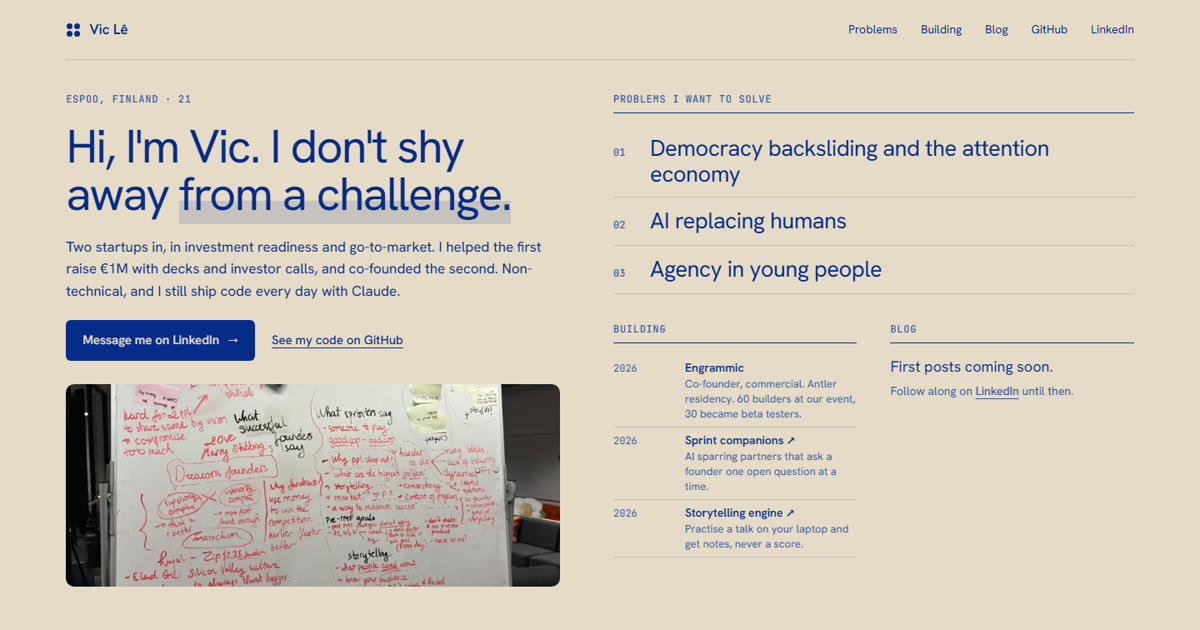
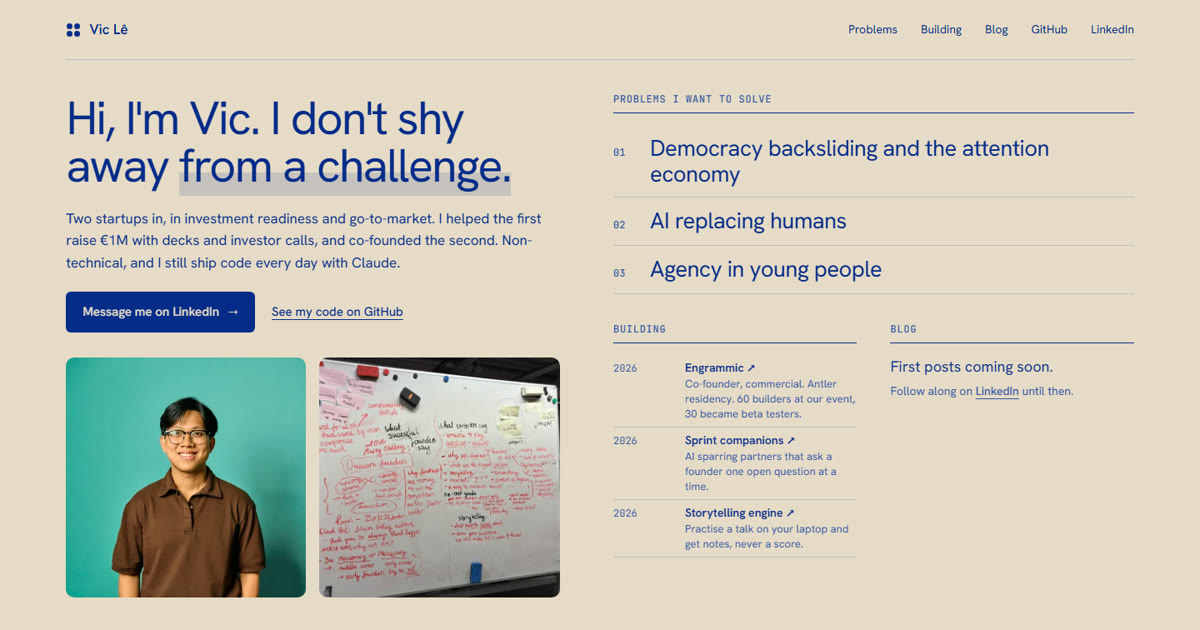
Add portrait, React Bits-style effects and Engrammic link; trim filler

Changed region(s): [[0.0308, 0.1508, 0.4933, 0.9651]]

diff --git a/assets/effects.js b/assets/effects.js
@@ -1,0 +1,107 @@
+/* Small effects, written in plain JS after React Bits components (reactbits.dev):
+   BlurText, TiltedCard, Magnet, SpotlightCard and ClickSpark. No framework, no build step. */
+(function () {
+  var reduce = window.matchMedia('(prefers-reduced-motion: reduce)').matches;
+  var finePointer = window.matchMedia('(hover: hover) and (pointer: fine)').matches;
+  document.documentElement.classList.add('js');
+
+  /* BlurText: words drop in from a blur, one after another */
+  document.querySelectorAll('[data-blur-text]').forEach(function (el) {
+    var i = 0;
+    (function wrap(node) {
+      Array.prototype.slice.call(node.childNodes).forEach(function (child) {
+        if (child.nodeType === 3) {
+          var frag = document.createDocumentFragment();
+          child.textContent.split(/(\s+)/).forEach(function (part) {
+            if (!part) return;
+            if (/^\s+$/.test(part)) { frag.appendChild(document.createTextNode(part)); return; }
+            var span = document.createElement('span');
+            span.className = 'bw';
+            span.style.setProperty('--w', i++);
+            span.textContent = part;
+            frag.appendChild(span);
+          });
+          node.replaceChild(frag, child);
+        } else if (child.nodeType === 1) {
+          wrap(child);
+        }
+      });
+    })(el);
+    requestAnimationFrame(function () { el.classList.add('is-in'); });
+  });
+
+  if (reduce) return;
+
+  /* TiltedCard: the card leans toward the pointer and lifts */
+  if (finePointer) document.querySelectorAll('[data-tilt]').forEach(function (card) {
+    var inner = card.querySelector('.tilt__inner');
+    var amp = 14;
+    card.addEventListener('pointermove', function (e) {
+      var r = card.getBoundingClientRect();
+      var x = (e.clientX - r.left) / r.width - 0.5;
+      var y = (e.clientY - r.top) / r.height - 0.5;
+      card.classList.add('is-active');
+      inner.style.transform = 'rotateX(' + (-y * amp) + 'deg) rotateY(' + (x * amp) + 'deg) scale(1.06)';
+    });
+    card.addEventListener('pointerleave', function () {
+      card.classList.remove('is-active');
+      inner.style.transform = '';
+    });
+  });
+
+  /* Magnet: the button drifts toward a nearby pointer */
+  if (finePointer) document.querySelectorAll('[data-magnet]').forEach(function (el) {
+    var pad = 80, strength = 4;
+    window.addEventListener('pointermove', function (e) {
+      var r = el.getBoundingClientRect();
+      var cx = r.left + r.width / 2, cy = r.top + r.height / 2;
+      var near = Math.abs(e.clientX - cx) < r.width / 2 + pad && Math.abs(e.clientY - cy) < r.height / 2 + pad;
+      if (near) {
+        el.classList.add('is-pulled');
+        el.style.transform = 'translate3d(' + (e.clientX - cx) / strength + 'px,' + (e.clientY - cy) / strength + 'px,0)';
+      } else if (el.classList.contains('is-pulled')) {
+        el.classList.remove('is-pulled');
+        el.style.transform = '';
+      }
+    }, { passive: true });
+  });
+
+  /* SpotlightCard: a soft light follows the pointer across each row */
+  document.querySelectorAll('[data-spotlight] .rows li').forEach(function (li) {
+    li.addEventListener('pointermove', function (e) {
+      var r = li.getBoundingClientRect();
+      li.style.setProperty('--mx', (e.clientX - r.left + 12) + 'px');
+      li.style.setProperty('--my', (e.clientY - r.top) + 'px');
+    });
+  });
+
+  /* ClickSpark: short lines burst from every click */
+  var canvas = document.createElement('canvas');
+  canvas.className = 'spark-canvas';
+  canvas.setAttribute('aria-hidden', 'true');
+  document.body.appendChild(canvas);
+  var ctx = canvas.getContext('2d');
+  var sparks = [], running = false, dpr = Math.min(window.devicePixelRatio || 1, 2);
+  function size() { canvas.width = innerWidth * dpr; canvas.height = innerHeight * dpr; ctx.setTransform(dpr, 0, 0, dpr, 0, 0); }
+  size(); window.addEventListener('resize', size);
+  var color = getComputedStyle(document.documentElement).getPropertyValue('--ink').trim() || '#062b8a';
+  function tick(now) {
+    ctx.clearRect(0, 0, innerWidth, innerHeight);
+    sparks = sparks.filter(function (s) {
+      var t = (now - s.start) / 420;
+      if (t >= 1) return false;
+      var ease = t * (2 - t), d = ease * 26, len = 9 * (1 - ease);
+      var x1 = s.x + d * Math.cos(s.a), y1 = s.y + d * Math.sin(s.a);
+      ctx.strokeStyle = color; ctx.lineWidth = 2; ctx.lineCap = 'round';
+      ctx.beginPath(); ctx.moveTo(x1, y1);
+      ctx.lineTo(x1 + len * Math.cos(s.a), y1 + len * Math.sin(s.a)); ctx.stroke();
+      return true;
+    });
+    if (sparks.length) requestAnimationFrame(tick); else running = false;
+  }
+  document.addEventListener('pointerdown', function (e) {
+    var now = performance.now();
+    for (var k = 0; k < 8; k++) sparks.push({ x: e.clientX, y: e.clientY, a: (Math.PI * 2 * k) / 8, start: now });
+    if (!running) { running = true; requestAnimationFrame(tick); }
+  });
+})();

diff --git a/assets/site.css b/assets/site.css
@@ -35,7 +35,7 @@ h1 em { font-style: normal; background: linear-gradient(transparent 62%, rgba(6,
 .btn span { transition: transform .2s; }
 .btn:hover span { transform: translateX(3px); }
 .link { font-weight: 500; text-underline-offset: 4px; text-decoration-thickness: 1px; }
-.board { margin: 6px 0 0; border-radius: 10px; overflow: hidden; aspect-ratio: 16 / 8; max-height: 27vh; width: 100%; }
+.board { margin: 0; border-radius: 10px; overflow: hidden; height: 100%; min-width: 0; }
 .board img { width: 100%; height: 100%; object-fit: cover; object-position: 55% 45%; display: block; transition: transform .5s; }
 .board:hover img { transform: scale(1.03); }
 
@@ -68,7 +68,7 @@ h1 em { font-style: normal; background: linear-gradient(transparent 62%, rgba(6,
 @media (max-width: 1100px) {
   .intro { grid-column: 1 / -1; padding-right: 0; }
   .side { grid-column: 1 / -1; margin-top: 48px; }
-  .board { max-height: none; aspect-ratio: 16 / 7; }
+ 
 }
 @media (max-width: 640px) {
   .mast nav a.hide-s { display: none; }
@@ -94,3 +94,48 @@ h1 em { font-style: normal; background: linear-gradient(transparent 62%, rgba(6,
 .prose pre code { padding: 0; background: none; }
 .posts li { grid-template-columns: 110px 1fr; padding: 14px 0; font-size: 17px; }
 .back { margin-top: 48px; }
+
+/* media row: portrait + whiteboard */
+.media { display: grid; grid-template-columns: auto 1fr; gap: 16px; height: min(32vh, 300px); margin-top: 8px; }
+.media .tilt { height: 100%; aspect-ratio: 1; }
+.foot a { text-decoration: none; }
+.foot a:hover { text-decoration: underline; }
+
+/* tilted card (after React Bits TiltedCard) */
+.tilt { margin: 0; perspective: 800px; }
+.tilt__inner { width: 100%; height: 100%; border-radius: 10px; overflow: hidden; transform-style: preserve-3d; will-change: transform; transition: transform .5s cubic-bezier(.2, .7, .2, 1), box-shadow .5s; }
+.tilt__inner img { width: 100%; height: 100%; object-fit: cover; display: block; }
+.tilt.is-active .tilt__inner { transition: transform .12s ease-out, box-shadow .3s; box-shadow: 0 24px 40px -18px rgba(6, 43, 138, .45); }
+
+/* blur text (after React Bits BlurText) */
+[data-blur-text] .bw { display: inline-block; }
+.js [data-blur-text] .bw { opacity: 0; filter: blur(10px); transform: translateY(-28px); }
+.js [data-blur-text].is-in .bw { animation: blur-in .9s cubic-bezier(.2, .7, .2, 1) forwards; animation-delay: calc(var(--w) * 110ms); }
+@keyframes blur-in { 55% { opacity: .6; filter: blur(4px); transform: translateY(4px); } to { opacity: 1; filter: blur(0); transform: none; } }
+
+/* magnet (after React Bits Magnet) */
+[data-magnet] { transition: transform .45s cubic-bezier(.2, .7, .2, 1), box-shadow .15s; }
+[data-magnet].is-pulled { transition: transform .15s ease-out, box-shadow .15s; }
+
+/* spotlight (after React Bits SpotlightCard) */
+[data-spotlight] .rows li { position: relative; }
+[data-spotlight] .rows li::before { content: ""; position: absolute; inset: 0 -12px; border-radius: 8px; pointer-events: none; opacity: 0; transition: opacity .3s; background: radial-gradient(220px circle at var(--mx, 50%) var(--my, 50%), rgba(6, 43, 138, .10), transparent 70%); }
+[data-spotlight] .rows li:hover::before { opacity: 1; }
+
+/* click spark canvas */
+.spark-canvas { position: fixed; inset: 0; pointer-events: none; z-index: 50; }
+
+@media (prefers-reduced-motion: reduce) {
+  .js [data-blur-text] .bw { opacity: 1; filter: none; transform: none; }
+}
+@media (min-width: 1101px) and (max-height: 820px) {
+  .media { grid-template-columns: auto; }
+}
+@media (max-width: 1100px) {
+  .media { height: 300px; }
+}
+@media (max-width: 640px) {
+  .media { height: auto; grid-template-columns: minmax(0, 1fr) minmax(0, 1fr); }
+  .media .tilt { width: 100%; height: auto; }
+  .board { aspect-ratio: 1; }
+}

diff --git a/index.html b/index.html
@@ -3,14 +3,16 @@ layout: base
 ---
   <main class="main" id="main">
     <section class="intro" aria-labelledby="h">
-      <p class="kicker rise">Espoo, Finland · 21</p>
-      <h1 id="h" class="rise" style="--i:1">Hi, I'm Vic. I don't shy away <em>from a challenge.</em></h1>
+      <h1 id="h" data-blur-text>Hi, I'm Vic. I don't shy away <em>from a challenge.</em></h1>
       <p class="lead rise" style="--i:2">Two startups in, in investment readiness and go-to-market. I helped the first raise €1M with decks and investor calls, and co-founded the second. Non-technical, and I still ship code every day with Claude.</p>
       <div class="actions rise" style="--i:3">
-        <a class="btn" href="https://www.linkedin.com/in/uyvule/">Message me on LinkedIn <span aria-hidden="true">→</span></a>
+        <a class="btn" data-magnet href="https://www.linkedin.com/in/uyvule/">Message me on LinkedIn <span aria-hidden="true">→</span></a>
         <a class="link" href="https://github.com/Vudepchai2">See my code on GitHub</a>
       </div>
-      <figure class="board rise" style="--i:4"><img src="/assets/img/whiteboard-1280.webp" srcset="/assets/img/whiteboard-800.webp 800w, /assets/img/whiteboard-1280.webp 1280w, /assets/img/whiteboard-1800.webp 1800w" sizes="(max-width: 1100px) 100vw, 45vw" width="1280" height="960" alt="My whiteboard: what successful founders say, next to what early founders say" fetchpriority="high"></figure>
+      <div class="media rise" style="--i:4">
+        <figure class="tilt" data-tilt><div class="tilt__inner"><img src="/assets/img/vic-900.webp" srcset="/assets/img/vic-480.webp 480w, /assets/img/vic-900.webp 900w" sizes="(max-width: 640px) 45vw, 18vw" width="900" height="900" alt="Vic Lê" fetchpriority="high"></div></figure>
+        <figure class="board"><img src="/assets/img/whiteboard-1280.webp" srcset="/assets/img/whiteboard-800.webp 800w, /assets/img/whiteboard-1280.webp 1280w, /assets/img/whiteboard-1800.webp 1800w" sizes="(max-width: 640px) 55vw, 28vw" width="1280" height="960" alt="My whiteboard: what successful founders say, next to what early founders say" loading="lazy"></figure>
+      </div>
     </section>
 
     <div class="side">
@@ -23,10 +25,10 @@ layout: base
         </ol>
       </section>
 
-      <section class="block rise" style="--i:4" id="building" aria-labelledby="b-h">
+      <section class="block rise" style="--i:4" id="building" data-spotlight aria-labelledby="b-h">
         <h2 id="b-h">Building</h2>
         <ul class="rows">
-          <li><time datetime="2026">2026</time><span><b>Engrammic</b><small>Co-founder, commercial. Antler residency. 60 builders at our event, 30 became beta testers.</small></span></li>
+          <li><time datetime="2026">2026</time><span><a href="https://github.com/engrammic">Engrammic ↗</a><small>Co-founder, commercial. Antler residency. 60 builders at our event, 30 became beta testers.</small></span></li>
           <li><time datetime="2026">2026</time><span><a href="https://github.com/Vudepchai2/sprint-companions">Sprint companions ↗</a><small>AI sparring partners that ask a founder one open question at a time.</small></span></li>
           <li><time datetime="2026">2026</time><span><a href="https://github.com/Vudepchai2/storycoach-engine">Storytelling engine ↗</a><small>Practise a talk on your laptop and get notes, never a score.</small></span></li>
         </ul>

diff --git a/_layouts/base.html b/_layouts/base.html
@@ -37,8 +37,9 @@
 
   <footer class="foot">
     <span>© {{ 'now' | date: '%Y' }} Vic Lê</span>
-    <span>Built in Espoo, hosted on GitHub Pages</span>
+    <a href="{{ '/feed.xml' | relative_url }}">RSS</a>
   </footer>
 </div>
+<script src="{{ '/assets/effects.js' | relative_url }}" defer></script>
 </body>
 </html>
